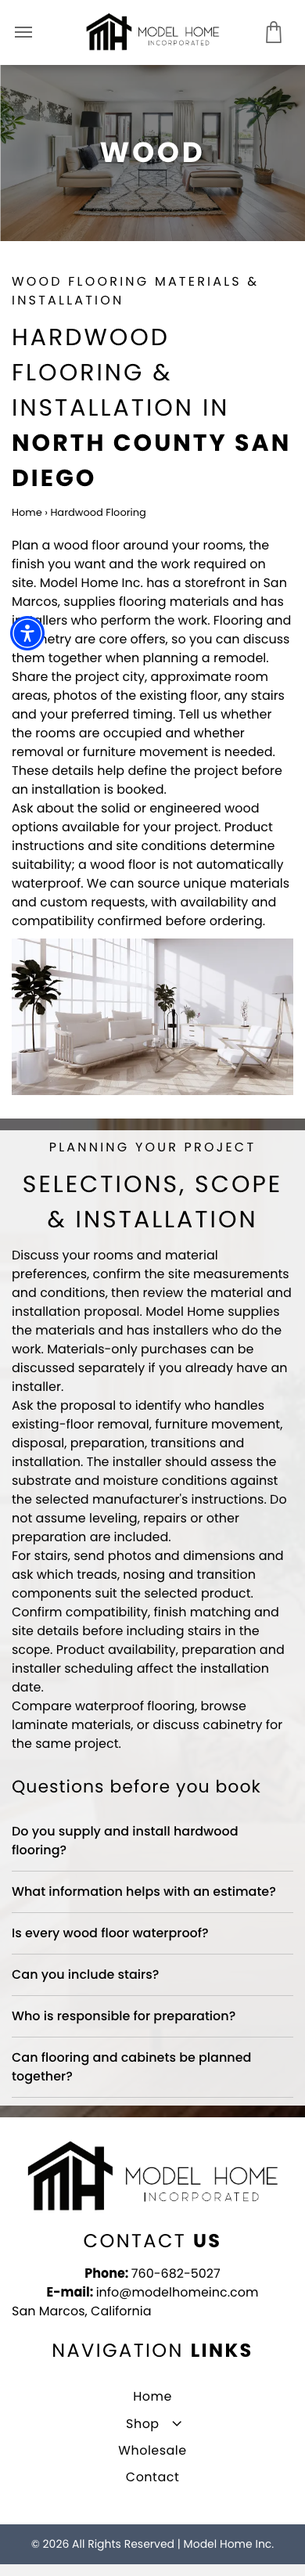
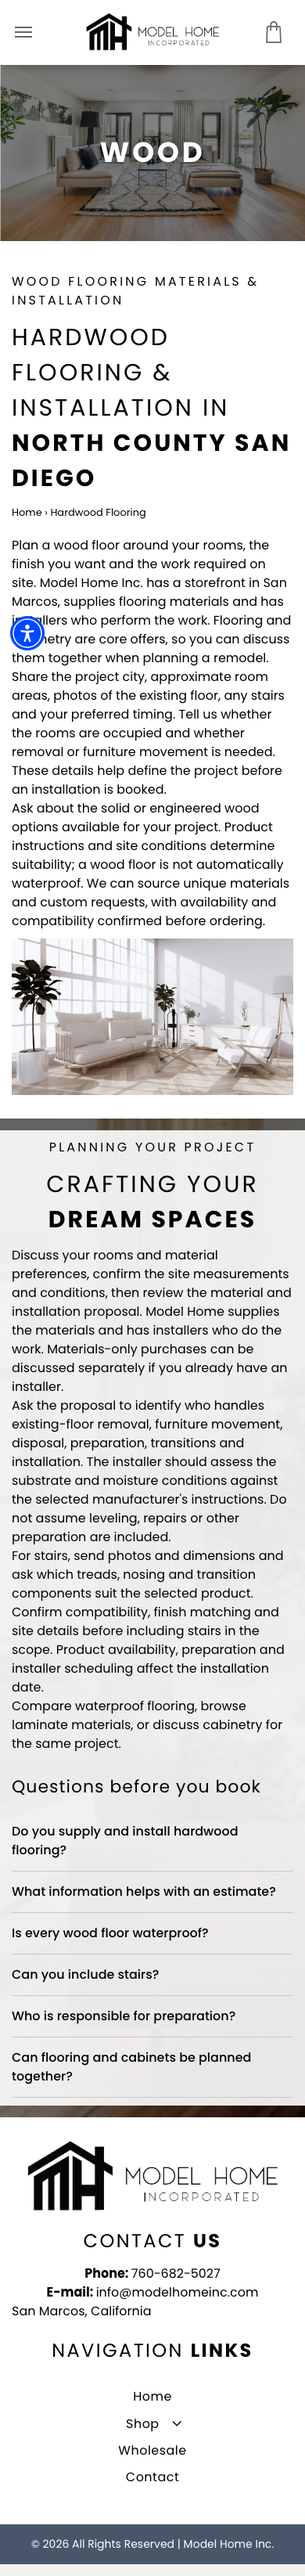
Restore original Crafting Your Dream Spaces heading

Changed region(s): [[0.3385, 0.4339, 0.8615, 0.4959], [0.1231, 0.4339, 0.3077, 0.4959]]

diff --git a/site/_variants/mobile/custom/index.html b/site/_variants/mobile/custom/index.html
@@ -1225,7 +1225,9 @@ a.u_1655745752
 </div> 
  <div class="dmRespRow u_1737552118 fullBleedChanged fullBleedMode hasBackgroundOverlay" id="1737552118"> <div class="dmRespColsWrapper" id="1153909052"> <div class="u_1644841700 dmRespCol empty-column small-12 hide-for-small large-4 medium-4" id="1644841700"></div> 
  <div class="u_1351812510 dmRespCol small-12 large-8 medium-8" id="1351812510"> <div class="dmNewParagraph" data-element-type="paragraph" data-version="5" id="1332028869" style="transition: opacity 1s ease-in-out 0s;"><p class="text-align-center" style="letter-spacing: 0.2em;"><span style="display: unset; text-transform: uppercase;">PLANNING YOUR PROJECT</span></p></div> 
- <div class="dmNewParagraph" data-element-type="paragraph" data-version="5" id="1017293919" style="transition: opacity 1s ease-in-out 0s;"> <h3 class="text-align-center m-size-30"><span class="m-font-size-30" m-font-size-set="true" style="font-weight: normal; text-transform: uppercase; display: unset;">Selections, Scope &amp; Installation</span><span single-space="true" class="m-font-size-30" style="text-transform: uppercase; display: unset;"><span class="m-font-size-30" style="text-transform: uppercase; display: unset;"></span></span><span class="m-font-size-30" style="text-transform: uppercase; display: unset;" m-font-size-set="true"></span></h3></div> 
+ <div class="dmNewParagraph" data-element-type="paragraph" data-version="5" id="1017293919" style="transition: opacity 1s ease-in-out 0s;"> <h3 class="text-align-center m-size-30"><span class="m-font-size-30" m-font-size-set="true" style="font-weight: normal; text-transform: uppercase; display: unset;">Crafting Your</span><span single-space="true" class="m-font-size-30" style="text-transform: uppercase; display: unset;"> <span class="m-font-size-30" style="text-transform: uppercase; display: unset;"></span> 
+</span><span class="m-font-size-30" style="text-transform: uppercase; display: unset;" m-font-size-set="true">Dream Spaces</span></h3> 
+</div> 
  <div class="dmNewParagraph" data-element-type="paragraph" data-version="5" id="1507881592" style="transition: opacity 1s ease-in-out 0s;"><p>Start with a project conversation, then confirm measurements and selections before approving an itemized proposal. Model Home supplies the materials and has installers who do the work. Ask the proposal to identify the cabinet specifications, installation work, removal, disposal and any work by other trades.</p><p>Appliance dimensions, door and drawer clearances, island spacing and the relationship to your flooring all affect the plan. Share details of a pantry, built-in or coffee station you have in mind so we can review the custom request. Availability, custom specifications, site readiness and installer scheduling affect timing; confirm a schedule before booking.</p><p>Compare the existing semi-custom and ready-to-assemble destinations if you are still choosing an approach. Pricing, consultation terms and timing are discussed for your project before booking.</p><p>Compare <a href="/semi-custom">semi-custom cabinets</a> and <a href="/rta">RTA cabinets</a>, or plan your <a href="/wood">wood flooring</a>.</p><h2 class="mh-questions-title">Questions before you book</h2><details class="mh-answer"><summary>Do you provide materials and installation?</summary><p>Yes. Model Home has a storefront, supplies materials and has installers who perform the work. Tell us the scope you want so material supply and installation are identified separately in the proposal. Materials-only inquiries are also welcome.</p></details><details class="mh-answer"><summary>Can I request a unique material or cabinet feature?</summary><p>Yes. Model Home can source unique materials and review custom requests. Send a reference image and the function you need; availability, fit and fabrication arrangements must be confirmed before ordering.</p></details><details class="mh-answer"><summary>What should I send for an initial estimate discussion?</summary><p>Send your project city, room photos, approximate measurements, layout or plans, appliance dimensions, finish ideas and target timing. Final measurements and specifications are needed before an order is approved.</p></details><details class="mh-answer"><summary>Can I keep my existing kitchen layout?</summary><p>Tell us what you want to retain. The condition of the space, dimensions, appliances and proposed cabinet specifications need review before the scope is confirmed. Do not assume changes to plumbing or electrical work are included.</p></details><details class="mh-answer"><summary>How do custom, semi-custom and RTA options compare?</summary><p>Custom requests address project-specific needs. Semi-custom choices work within the selected supplier's options; RTA cabinets require assembly. Ask which options are available and what assembly and installation work is included.</p></details><details class="mh-answer"><summary>What affects the price and schedule?</summary><p>Cabinet quantities and specifications, finishes, custom requests, installation scope and site readiness affect a proposal. Product availability and installer scheduling also matter. Confirm current terms for your project before booking.</p></details></div> 
  <a data-display-type="block" class="u_1655745752 align-center dmButtonLink dmWidget dmWwr default dmOnlyButton dmDefaultGradient sticky-mobile-position-bottom-right sticky-desktop-position-bottom-right hide-for-small" file="false" href="/#Contact" data-element-type="dButtonLinkId" id="1655745752"> <span class="iconBg" id="1360063254"> <span class="icon hasFontIcon icon-star" id="1975058063"></span> 
 </span> 

diff --git a/site/_variants/tablet/custom/index.html b/site/_variants/tablet/custom/index.html
@@ -1194,7 +1194,9 @@ a.u_1655745752
 </div> 
  <div class="dmRespRow u_1737552118 fullBleedChanged fullBleedMode hasBackgroundOverlay" id="1737552118"> <div class="dmRespColsWrapper" id="1153909052"> <div class="u_1644841700 dmRespCol empty-column small-12 hide-for-small large-4 medium-4" id="1644841700"></div> 
  <div class="u_1351812510 dmRespCol small-12 large-8 medium-8" id="1351812510"> <div class="dmNewParagraph" data-element-type="paragraph" data-version="5" id="1332028869" style="transition: opacity 1s ease-in-out 0s;"><p class="text-align-center" style="letter-spacing: 0.2em;"><span style="display: unset; text-transform: uppercase;">PLANNING YOUR PROJECT</span></p></div> 
- <div class="dmNewParagraph" data-element-type="paragraph" data-version="5" id="1017293919" style="transition: opacity 1s ease-in-out 0s;"> <h3 class="text-align-center m-size-30"><span class="m-font-size-30" m-font-size-set="true" style="font-weight: normal; text-transform: uppercase; display: unset;">Selections, Scope &amp; Installation</span><span single-space="true" class="m-font-size-30" style="text-transform: uppercase; display: unset;"><span class="m-font-size-30" style="text-transform: uppercase; display: unset;"></span></span><span class="m-font-size-30" style="text-transform: uppercase; display: unset;" m-font-size-set="true"></span></h3></div> 
+ <div class="dmNewParagraph" data-element-type="paragraph" data-version="5" id="1017293919" style="transition: opacity 1s ease-in-out 0s;"> <h3 class="text-align-center m-size-30"><span class="m-font-size-30" m-font-size-set="true" style="font-weight: normal; text-transform: uppercase; display: unset;">Crafting Your</span><span single-space="true" class="m-font-size-30" style="text-transform: uppercase; display: unset;"> <span class="m-font-size-30" style="text-transform: uppercase; display: unset;"></span> 
+</span><span class="m-font-size-30" style="text-transform: uppercase; display: unset;" m-font-size-set="true">Dream Spaces</span></h3> 
+</div> 
  <div class="dmNewParagraph" data-element-type="paragraph" data-version="5" id="1507881592" style="transition: opacity 1s ease-in-out 0s;"><p>Start with a project conversation, then confirm measurements and selections before approving an itemized proposal. Model Home supplies the materials and has installers who do the work. Ask the proposal to identify the cabinet specifications, installation work, removal, disposal and any work by other trades.</p><p>Appliance dimensions, door and drawer clearances, island spacing and the relationship to your flooring all affect the plan. Share details of a pantry, built-in or coffee station you have in mind so we can review the custom request. Availability, custom specifications, site readiness and installer scheduling affect timing; confirm a schedule before booking.</p><p>Compare the existing semi-custom and ready-to-assemble destinations if you are still choosing an approach. Pricing, consultation terms and timing are discussed for your project before booking.</p><p>Compare <a href="/semi-custom">semi-custom cabinets</a> and <a href="/rta">RTA cabinets</a>, or plan your <a href="/wood">wood flooring</a>.</p><h2 class="mh-questions-title">Questions before you book</h2><details class="mh-answer"><summary>Do you provide materials and installation?</summary><p>Yes. Model Home has a storefront, supplies materials and has installers who perform the work. Tell us the scope you want so material supply and installation are identified separately in the proposal. Materials-only inquiries are also welcome.</p></details><details class="mh-answer"><summary>Can I request a unique material or cabinet feature?</summary><p>Yes. Model Home can source unique materials and review custom requests. Send a reference image and the function you need; availability, fit and fabrication arrangements must be confirmed before ordering.</p></details><details class="mh-answer"><summary>What should I send for an initial estimate discussion?</summary><p>Send your project city, room photos, approximate measurements, layout or plans, appliance dimensions, finish ideas and target timing. Final measurements and specifications are needed before an order is approved.</p></details><details class="mh-answer"><summary>Can I keep my existing kitchen layout?</summary><p>Tell us what you want to retain. The condition of the space, dimensions, appliances and proposed cabinet specifications need review before the scope is confirmed. Do not assume changes to plumbing or electrical work are included.</p></details><details class="mh-answer"><summary>How do custom, semi-custom and RTA options compare?</summary><p>Custom requests address project-specific needs. Semi-custom choices work within the selected supplier's options; RTA cabinets require assembly. Ask which options are available and what assembly and installation work is included.</p></details><details class="mh-answer"><summary>What affects the price and schedule?</summary><p>Cabinet quantities and specifications, finishes, custom requests, installation scope and site readiness affect a proposal. Product availability and installer scheduling also matter. Confirm current terms for your project before booking.</p></details></div> 
  <a data-display-type="block" class="u_1655745752 align-center dmButtonLink dmWidget dmWwr default dmOnlyButton dmDefaultGradient sticky-mobile-position-bottom-right sticky-desktop-position-bottom-right hide-for-small" file="false" href="/#Contact" data-element-type="dButtonLinkId" id="1655745752"> <span class="iconBg" id="1360063254"> <span class="icon hasFontIcon icon-star" id="1975058063"></span> 
 </span> 

diff --git a/site/custom/index.html b/site/custom/index.html
@@ -1299,7 +1299,9 @@ a.u_1655745752
 </div> 
  <div class="dmRespRow u_1737552118 fullBleedChanged fullBleedMode hasBackgroundOverlay" id="1737552118"> <div class="dmRespColsWrapper" id="1153909052"> <div class="u_1644841700 dmRespCol empty-column small-12 hide-for-small large-4 medium-4" id="1644841700"></div> 
  <div class="u_1351812510 dmRespCol small-12 large-8 medium-8" id="1351812510"> <div class="dmNewParagraph" data-element-type="paragraph" data-version="5" id="1332028869" style="transition: opacity 1s ease-in-out 0s;"><p class="text-align-center" style="letter-spacing: 0.2em;"><span style="display: unset; text-transform: uppercase;">PLANNING YOUR PROJECT</span></p></div> 
- <div class="dmNewParagraph" data-element-type="paragraph" data-version="5" id="1017293919" style="transition: opacity 1s ease-in-out 0s;"> <h3 class="text-align-center m-size-30"><span class="m-font-size-30" m-font-size-set="true" style="font-weight: normal; text-transform: uppercase; display: unset;">Selections, Scope &amp; Installation</span><span single-space="true" class="m-font-size-30" style="text-transform: uppercase; display: unset;"><span class="m-font-size-30" style="text-transform: uppercase; display: unset;"></span></span><span class="m-font-size-30" style="text-transform: uppercase; display: unset;" m-font-size-set="true"></span></h3></div> 
+ <div class="dmNewParagraph" data-element-type="paragraph" data-version="5" id="1017293919" style="transition: opacity 1s ease-in-out 0s;"> <h3 class="text-align-center m-size-30"><span class="m-font-size-30" m-font-size-set="true" style="font-weight: normal; text-transform: uppercase; display: unset;">Crafting Your</span><span single-space="true" class="m-font-size-30" style="text-transform: uppercase; display: unset;"> <span class="m-font-size-30" style="text-transform: uppercase; display: unset;"></span> 
+</span><span class="m-font-size-30" style="text-transform: uppercase; display: unset;" m-font-size-set="true">Dream Spaces</span></h3> 
+</div> 
  <div class="dmNewParagraph" data-element-type="paragraph" data-version="5" id="1507881592" style="transition: opacity 1s ease-in-out 0s;"><p>Start with a project conversation, then confirm measurements and selections before approving an itemized proposal. Model Home supplies the materials and has installers who do the work. Ask the proposal to identify the cabinet specifications, installation work, removal, disposal and any work by other trades.</p><p>Appliance dimensions, door and drawer clearances, island spacing and the relationship to your flooring all affect the plan. Share details of a pantry, built-in or coffee station you have in mind so we can review the custom request. Availability, custom specifications, site readiness and installer scheduling affect timing; confirm a schedule before booking.</p><p>Compare the existing semi-custom and ready-to-assemble destinations if you are still choosing an approach. Pricing, consultation terms and timing are discussed for your project before booking.</p><p>Compare <a href="/semi-custom">semi-custom cabinets</a> and <a href="/rta">RTA cabinets</a>, or plan your <a href="/wood">wood flooring</a>.</p><h2 class="mh-questions-title">Questions before you book</h2><details class="mh-answer"><summary>Do you provide materials and installation?</summary><p>Yes. Model Home has a storefront, supplies materials and has installers who perform the work. Tell us the scope you want so material supply and installation are identified separately in the proposal. Materials-only inquiries are also welcome.</p></details><details class="mh-answer"><summary>Can I request a unique material or cabinet feature?</summary><p>Yes. Model Home can source unique materials and review custom requests. Send a reference image and the function you need; availability, fit and fabrication arrangements must be confirmed before ordering.</p></details><details class="mh-answer"><summary>What should I send for an initial estimate discussion?</summary><p>Send your project city, room photos, approximate measurements, layout or plans, appliance dimensions, finish ideas and target timing. Final measurements and specifications are needed before an order is approved.</p></details><details class="mh-answer"><summary>Can I keep my existing kitchen layout?</summary><p>Tell us what you want to retain. The condition of the space, dimensions, appliances and proposed cabinet specifications need review before the scope is confirmed. Do not assume changes to plumbing or electrical work are included.</p></details><details class="mh-answer"><summary>How do custom, semi-custom and RTA options compare?</summary><p>Custom requests address project-specific needs. Semi-custom choices work within the selected supplier's options; RTA cabinets require assembly. Ask which options are available and what assembly and installation work is included.</p></details><details class="mh-answer"><summary>What affects the price and schedule?</summary><p>Cabinet quantities and specifications, finishes, custom requests, installation scope and site readiness affect a proposal. Product availability and installer scheduling also matter. Confirm current terms for your project before booking.</p></details></div> 
  <a data-display-type="block" class="u_1655745752 align-center dmButtonLink dmWidget dmWwr default dmOnlyButton dmDefaultGradient sticky-mobile-position-bottom-right sticky-desktop-position-bottom-right hide-for-small" file="false" href="/#Contact" data-element-type="dButtonLinkId" id="1655745752"> <span class="iconBg" id="1360063254"> <span class="icon hasFontIcon icon-star" id="1975058063"></span> 
 </span> 

diff --git a/site/_variants/mobile/wood/index.html b/site/_variants/mobile/wood/index.html
@@ -1225,7 +1225,8 @@ a.u_1655745752
 </div> 
  <div class="dmRespRow u_1737552118 fullBleedChanged fullBleedMode hasBackgroundOverlay" id="1737552118"> <div class="dmRespColsWrapper" id="1153909052"> <div class="u_1644841700 dmRespCol empty-column small-12 hide-for-small large-4 medium-4" id="1644841700"></div> 
  <div class="u_1351812510 dmRespCol small-12 large-8 medium-8" id="1351812510"> <div class="dmNewParagraph" data-element-type="paragraph" data-version="5" id="1332028869" style="transition: opacity 1s ease-in-out 0s;"><p class="text-align-center" style="letter-spacing: 0.2em;"><span style="display: unset; text-transform: uppercase;">PLANNING YOUR PROJECT</span></p></div> 
- <div class="dmNewParagraph" data-element-type="paragraph" data-version="5" id="1017293919" style="transition: opacity 1s ease-in-out 0s;"> <h3 class="text-align-center m-size-30"><span style="font-weight: normal; text-transform: uppercase; display: unset;" class="m-font-size-30" m-font-size-set="true">Selections, Scope &amp; Installation</span><span class="m-font-size-30" style="text-transform: uppercase; display: unset;"><span style="text-transform: uppercase; display: unset;" class="m-font-size-30" m-font-size-set="true"></span></span></h3></div> 
+ <div class="dmNewParagraph" data-element-type="paragraph" data-version="5" id="1017293919" style="transition: opacity 1s ease-in-out 0s;"> <h3 class="text-align-center m-size-30"><span style="font-weight: normal; text-transform: uppercase; display: unset;" class="m-font-size-30" m-font-size-set="true">Crafting Your</span><span class="m-font-size-30" style="text-transform: uppercase; display: unset;"> <span style="text-transform: uppercase; display: unset;" class="m-font-size-30" m-font-size-set="true">Dream Spaces</span></span></h3> 
+</div> 
  <div class="dmNewParagraph" data-element-type="paragraph" data-version="5" id="1507881592" style="transition: opacity 1s ease-in-out 0s;"><p>Discuss your rooms and material preferences, confirm the site measurements and conditions, then review the material and installation proposal. Model Home supplies the materials and has installers who do the work. Materials-only purchases can be discussed separately if you already have an installer.</p><p>Ask the proposal to identify who handles existing-floor removal, furniture movement, disposal, preparation, transitions and installation. The installer should assess the substrate and moisture conditions against the selected manufacturer's instructions. Do not assume leveling, repairs or other preparation are included.</p><p>For stairs, send photos and dimensions and ask which treads, nosing and transition components suit the selected product. Confirm compatibility, finish matching and site details before including stairs in the scope. Product availability, preparation and installer scheduling affect the installation date.</p><p>Compare <a href="/waterproof">waterproof flooring</a>, browse <a href="https://www.modelhomeinc.com/store/Laminate-c161564962">laminate materials</a>, or discuss <a href="/custom">cabinetry</a> for the same project.</p><h2 class="mh-questions-title">Questions before you book</h2><details class="mh-answer"><summary>Do you supply and install hardwood flooring?</summary><p>Yes. Model Home supplies materials and has installers who perform the work. Discuss the rooms, site conditions and installation scope before booking. Materials-only purchases are a separate option.</p></details><details class="mh-answer"><summary>What information helps with an estimate?</summary><p>Send your project city, approximate room areas, photos, the existing floor type, stair details and timing. Identify removal, furniture movement and preparation needs so the proposal can state what is included.</p></details><details class="mh-answer"><summary>Is every wood floor waterproof?</summary><p>No. Check the selected product's instructions and warranty for moisture limitations. If you are comparing other materials, use the existing waterproof-flooring destination and confirm the specific product's suitability.</p></details><details class="mh-answer"><summary>Can you include stairs?</summary><p>Share stair photos, dimensions and the flooring you are considering. The appropriate components and installation details must be confirmed for that product and site before stairs are included in the scope.</p></details><details class="mh-answer"><summary>Who is responsible for preparation?</summary><p>Ask the proposal to name the responsibility for removal, disposal, substrate assessment, repairs and preparation. The needed work depends on site conditions and product instructions; it should be agreed before installation.</p></details><details class="mh-answer"><summary>Can flooring and cabinets be planned together?</summary><p>Yes. Discuss both as part of your project so materials, finished heights, transitions and the order of work can be reviewed. Confirm the final scope and schedule before booking.</p></details></div> 
  <a data-display-type="block" class="u_1655745752 align-center dmButtonLink dmWidget dmWwr default dmOnlyButton dmDefaultGradient sticky-mobile-position-bottom-right sticky-desktop-position-bottom-right hide-for-small" file="false" href="/#Contact" data-element-type="dButtonLinkId" id="1655745752"> <span class="iconBg" id="1360063254"> <span class="icon hasFontIcon icon-star" id="1975058063"></span> 
 </span> 

diff --git a/site/_variants/tablet/wood/index.html b/site/_variants/tablet/wood/index.html
@@ -1194,7 +1194,8 @@ a.u_1655745752
 </div> 
  <div class="dmRespRow u_1737552118 fullBleedChanged fullBleedMode hasBackgroundOverlay" id="1737552118"> <div class="dmRespColsWrapper" id="1153909052"> <div class="u_1644841700 dmRespCol empty-column small-12 hide-for-small large-4 medium-4" id="1644841700"></div> 
  <div class="u_1351812510 dmRespCol small-12 large-8 medium-8" id="1351812510"> <div class="dmNewParagraph" data-element-type="paragraph" data-version="5" id="1332028869" style="transition: opacity 1s ease-in-out 0s;"><p class="text-align-center" style="letter-spacing: 0.2em;"><span style="display: unset; text-transform: uppercase;">PLANNING YOUR PROJECT</span></p></div> 
- <div class="dmNewParagraph" data-element-type="paragraph" data-version="5" id="1017293919" style="transition: opacity 1s ease-in-out 0s;"> <h3 class="text-align-center m-size-30"><span style="font-weight: normal; text-transform: uppercase; display: unset;" class="m-font-size-30" m-font-size-set="true">Selections, Scope &amp; Installation</span><span class="m-font-size-30" style="text-transform: uppercase; display: unset;"><span style="text-transform: uppercase; display: unset;" class="m-font-size-30" m-font-size-set="true"></span></span></h3></div> 
+ <div class="dmNewParagraph" data-element-type="paragraph" data-version="5" id="1017293919" style="transition: opacity 1s ease-in-out 0s;"> <h3 class="text-align-center m-size-30"><span style="font-weight: normal; text-transform: uppercase; display: unset;" class="m-font-size-30" m-font-size-set="true">Crafting Your</span><span class="m-font-size-30" style="text-transform: uppercase; display: unset;"> <span style="text-transform: uppercase; display: unset;" class="m-font-size-30" m-font-size-set="true">Dream Spaces</span></span></h3> 
+</div> 
  <div class="dmNewParagraph" data-element-type="paragraph" data-version="5" id="1507881592" style="transition: opacity 1s ease-in-out 0s;"><p>Discuss your rooms and material preferences, confirm the site measurements and conditions, then review the material and installation proposal. Model Home supplies the materials and has installers who do the work. Materials-only purchases can be discussed separately if you already have an installer.</p><p>Ask the proposal to identify who handles existing-floor removal, furniture movement, disposal, preparation, transitions and installation. The installer should assess the substrate and moisture conditions against the selected manufacturer's instructions. Do not assume leveling, repairs or other preparation are included.</p><p>For stairs, send photos and dimensions and ask which treads, nosing and transition components suit the selected product. Confirm compatibility, finish matching and site details before including stairs in the scope. Product availability, preparation and installer scheduling affect the installation date.</p><p>Compare <a href="/waterproof">waterproof flooring</a>, browse <a href="https://www.modelhomeinc.com/store/Laminate-c161564962">laminate materials</a>, or discuss <a href="/custom">cabinetry</a> for the same project.</p><h2 class="mh-questions-title">Questions before you book</h2><details class="mh-answer"><summary>Do you supply and install hardwood flooring?</summary><p>Yes. Model Home supplies materials and has installers who perform the work. Discuss the rooms, site conditions and installation scope before booking. Materials-only purchases are a separate option.</p></details><details class="mh-answer"><summary>What information helps with an estimate?</summary><p>Send your project city, approximate room areas, photos, the existing floor type, stair details and timing. Identify removal, furniture movement and preparation needs so the proposal can state what is included.</p></details><details class="mh-answer"><summary>Is every wood floor waterproof?</summary><p>No. Check the selected product's instructions and warranty for moisture limitations. If you are comparing other materials, use the existing waterproof-flooring destination and confirm the specific product's suitability.</p></details><details class="mh-answer"><summary>Can you include stairs?</summary><p>Share stair photos, dimensions and the flooring you are considering. The appropriate components and installation details must be confirmed for that product and site before stairs are included in the scope.</p></details><details class="mh-answer"><summary>Who is responsible for preparation?</summary><p>Ask the proposal to name the responsibility for removal, disposal, substrate assessment, repairs and preparation. The needed work depends on site conditions and product instructions; it should be agreed before installation.</p></details><details class="mh-answer"><summary>Can flooring and cabinets be planned together?</summary><p>Yes. Discuss both as part of your project so materials, finished heights, transitions and the order of work can be reviewed. Confirm the final scope and schedule before booking.</p></details></div> 
  <a data-display-type="block" class="u_1655745752 align-center dmButtonLink dmWidget dmWwr default dmOnlyButton dmDefaultGradient sticky-mobile-position-bottom-right sticky-desktop-position-bottom-right hide-for-small" file="false" href="/#Contact" data-element-type="dButtonLinkId" id="1655745752"> <span class="iconBg" id="1360063254"> <span class="icon hasFontIcon icon-star" id="1975058063"></span> 
 </span> 

diff --git a/site/wood/index.html b/site/wood/index.html
@@ -1299,7 +1299,8 @@ a.u_1655745752
 </div> 
  <div class="dmRespRow u_1737552118 fullBleedChanged fullBleedMode hasBackgroundOverlay" id="1737552118"> <div class="dmRespColsWrapper" id="1153909052"> <div class="u_1644841700 dmRespCol empty-column small-12 hide-for-small large-4 medium-4" id="1644841700"></div> 
  <div class="u_1351812510 dmRespCol small-12 large-8 medium-8" id="1351812510"> <div class="dmNewParagraph" data-element-type="paragraph" data-version="5" id="1332028869" style="transition: opacity 1s ease-in-out 0s;"><p class="text-align-center" style="letter-spacing: 0.2em;"><span style="display: unset; text-transform: uppercase;">PLANNING YOUR PROJECT</span></p></div> 
- <div class="dmNewParagraph" data-element-type="paragraph" data-version="5" id="1017293919" style="transition: opacity 1s ease-in-out 0s;"> <h3 class="text-align-center m-size-30"><span style="font-weight: normal; text-transform: uppercase; display: unset;" class="m-font-size-30" m-font-size-set="true">Selections, Scope &amp; Installation</span><span class="m-font-size-30" style="text-transform: uppercase; display: unset;"><span style="text-transform: uppercase; display: unset;" class="m-font-size-30" m-font-size-set="true"></span></span></h3></div> 
+ <div class="dmNewParagraph" data-element-type="paragraph" data-version="5" id="1017293919" style="transition: opacity 1s ease-in-out 0s;"> <h3 class="text-align-center m-size-30"><span style="font-weight: normal; text-transform: uppercase; display: unset;" class="m-font-size-30" m-font-size-set="true">Crafting Your</span><span class="m-font-size-30" style="text-transform: uppercase; display: unset;"> <span style="text-transform: uppercase; display: unset;" class="m-font-size-30" m-font-size-set="true">Dream Spaces</span></span></h3> 
+</div> 
  <div class="dmNewParagraph" data-element-type="paragraph" data-version="5" id="1507881592" style="transition: opacity 1s ease-in-out 0s;"><p>Discuss your rooms and material preferences, confirm the site measurements and conditions, then review the material and installation proposal. Model Home supplies the materials and has installers who do the work. Materials-only purchases can be discussed separately if you already have an installer.</p><p>Ask the proposal to identify who handles existing-floor removal, furniture movement, disposal, preparation, transitions and installation. The installer should assess the substrate and moisture conditions against the selected manufacturer's instructions. Do not assume leveling, repairs or other preparation are included.</p><p>For stairs, send photos and dimensions and ask which treads, nosing and transition components suit the selected product. Confirm compatibility, finish matching and site details before including stairs in the scope. Product availability, preparation and installer scheduling affect the installation date.</p><p>Compare <a href="/waterproof">waterproof flooring</a>, browse <a href="https://www.modelhomeinc.com/store/Laminate-c161564962">laminate materials</a>, or discuss <a href="/custom">cabinetry</a> for the same project.</p><h2 class="mh-questions-title">Questions before you book</h2><details class="mh-answer"><summary>Do you supply and install hardwood flooring?</summary><p>Yes. Model Home supplies materials and has installers who perform the work. Discuss the rooms, site conditions and installation scope before booking. Materials-only purchases are a separate option.</p></details><details class="mh-answer"><summary>What information helps with an estimate?</summary><p>Send your project city, approximate room areas, photos, the existing floor type, stair details and timing. Identify removal, furniture movement and preparation needs so the proposal can state what is included.</p></details><details class="mh-answer"><summary>Is every wood floor waterproof?</summary><p>No. Check the selected product's instructions and warranty for moisture limitations. If you are comparing other materials, use the existing waterproof-flooring destination and confirm the specific product's suitability.</p></details><details class="mh-answer"><summary>Can you include stairs?</summary><p>Share stair photos, dimensions and the flooring you are considering. The appropriate components and installation details must be confirmed for that product and site before stairs are included in the scope.</p></details><details class="mh-answer"><summary>Who is responsible for preparation?</summary><p>Ask the proposal to name the responsibility for removal, disposal, substrate assessment, repairs and preparation. The needed work depends on site conditions and product instructions; it should be agreed before installation.</p></details><details class="mh-answer"><summary>Can flooring and cabinets be planned together?</summary><p>Yes. Discuss both as part of your project so materials, finished heights, transitions and the order of work can be reviewed. Confirm the final scope and schedule before booking.</p></details></div> 
  <a data-display-type="block" class="u_1655745752 align-center dmButtonLink dmWidget dmWwr default dmOnlyButton dmDefaultGradient sticky-mobile-position-bottom-right sticky-desktop-position-bottom-right hide-for-small" file="false" href="/#Contact" data-element-type="dButtonLinkId" id="1655745752"> <span class="iconBg" id="1360063254"> <span class="icon hasFontIcon icon-star" id="1975058063"></span> 
 </span> 

diff --git a/tools/build.py b/tools/build.py
@@ -127,7 +127,7 @@ for kind in ['desktop','mobile','tablet']:
             text_in_element(doc,'1689997905','Materials, custom requests & installation' if route=='custom' else 'Wood flooring materials & installation')
             replace_content(doc.get_element_by_id('1330027818'),paragraphs(CONTENT[route]['intro']))
             text_in_element(doc,'1332028869','PLANNING YOUR PROJECT')
-            text_in_element(doc,'1017293919','Selections, Scope & Installation')
+            # Retain the live 'Crafting Your Dream Spaces' heading and its original styled spans.
             questions=''.join('<details class="mh-answer"><summary>'+q+'</summary><p>'+a+'</p></details>' for q,a in CONTENT[route]['questions'])
             links='<p>Compare <a href="/semi-custom">semi-custom cabinets</a> and <a href="/rta">RTA cabinets</a>, or plan your <a href="/wood">wood flooring</a>.</p>' if route=='custom' else '<p>Compare <a href="/waterproof">waterproof flooring</a>, browse <a href="https://www.modelhomeinc.com/store/Laminate-c161564962">laminate materials</a>, or discuss <a href="/custom">cabinetry</a> for the same project.</p>'
             replace_content(doc.get_element_by_id('1507881592'),paragraphs(CONTENT[route]['process'])+links+'<h2 class="mh-questions-title">Questions before you book</h2>'+questions)

diff --git a/review/change-summary.md b/review/change-summary.md
@@ -30,6 +30,8 @@ The two rewritten destinations are `/custom` and `/wood`. Homepage changes are b
 
 Imagery remains the live site's existing imagery. It is not labeled as a completed Model Home project. Project provenance and publication rights need confirmation before proof content is added.
 
+The original “Crafting Your Dream Spaces” section heading and styled spans are restored on `/custom` and `/wood` at the user’s request; the project guidance beneath remains.
+
 ## Visible differences to review
 
 Longer service headings and useful buying guidance increase the text sections' height. Breadcrumbs, expandable answers and contact qualification fields use the existing palette and typography. The footer adds the verified San Marcos locality. Existing mobile consultation buttons remain hidden unless the user approves revealing them; the question is pending. Exact phone-header layout has been retained.
